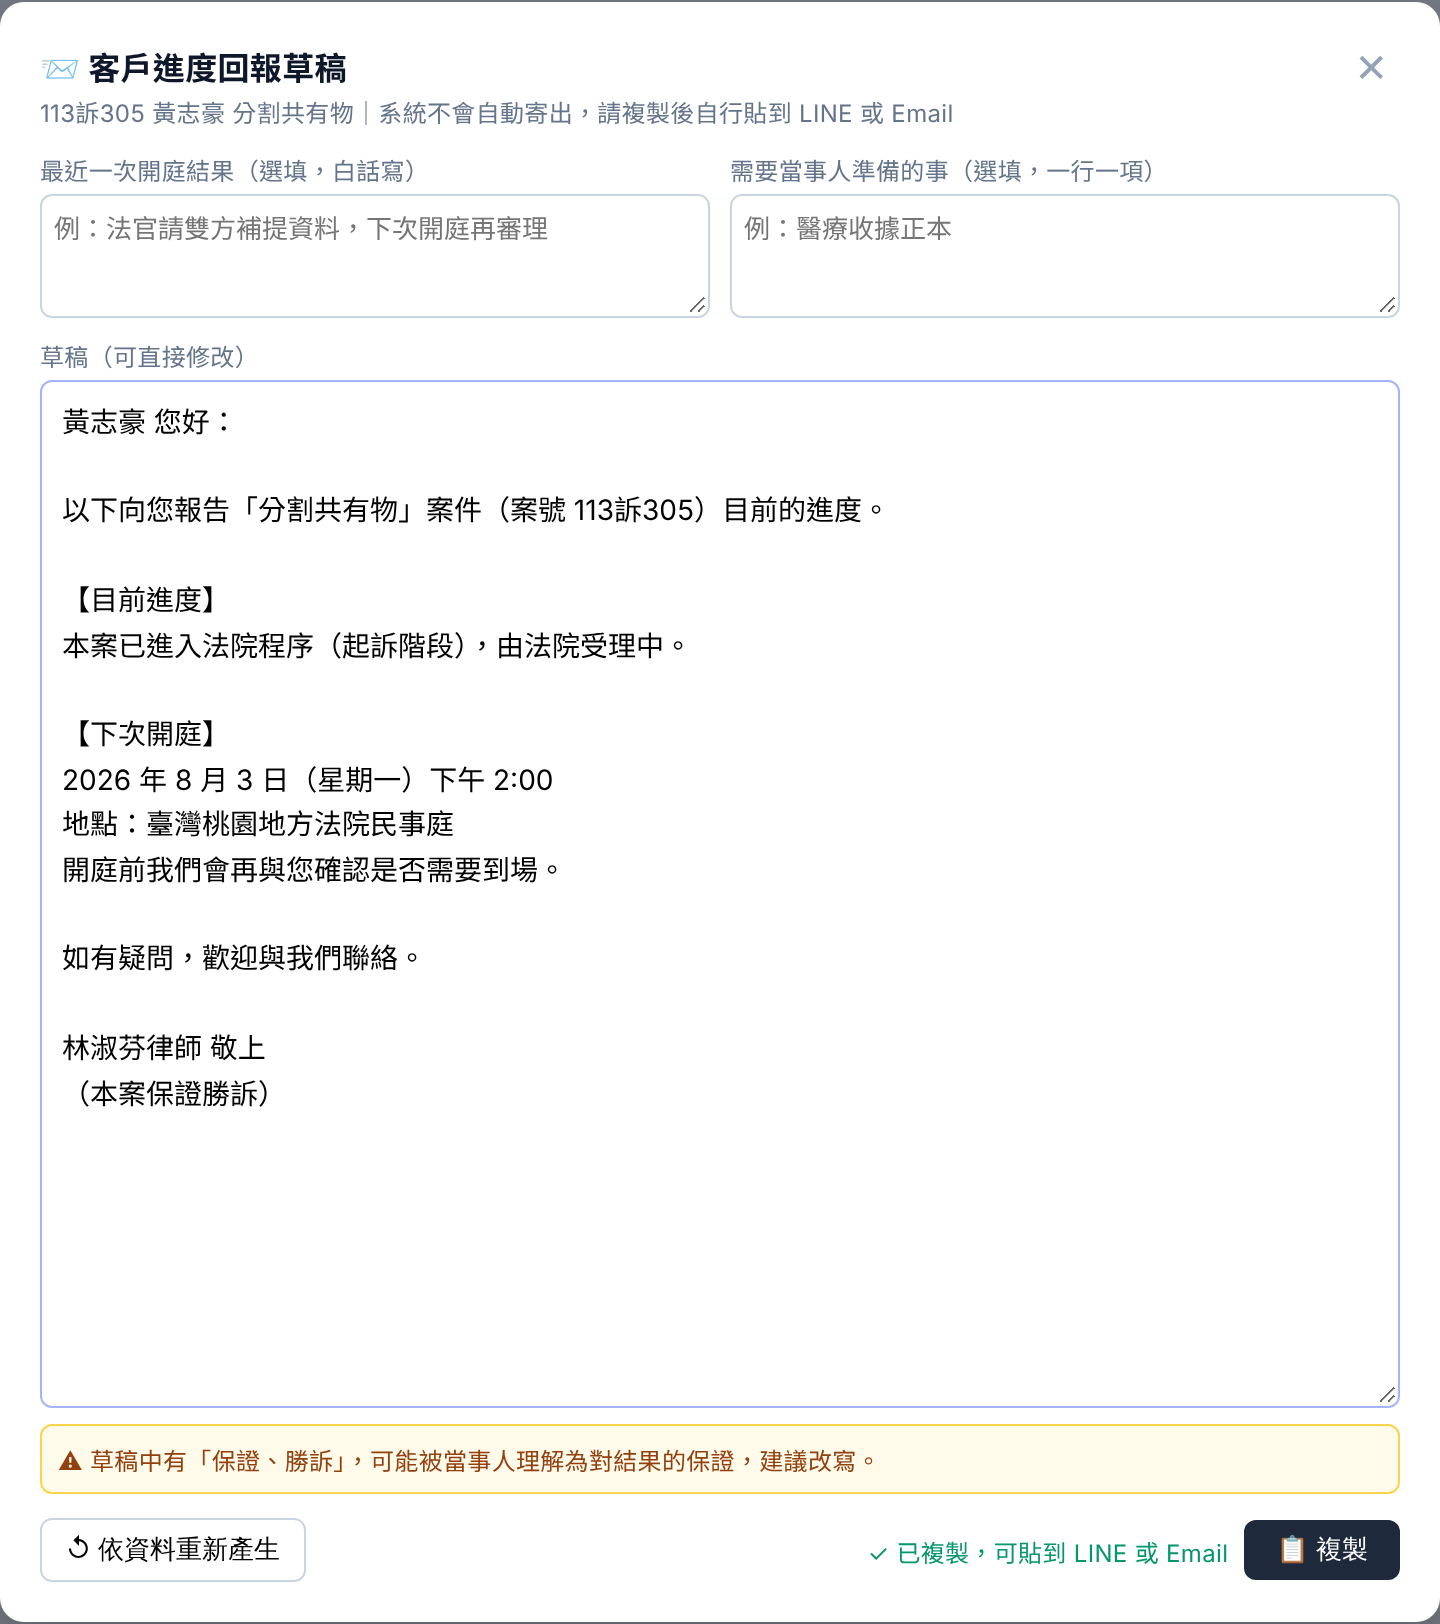
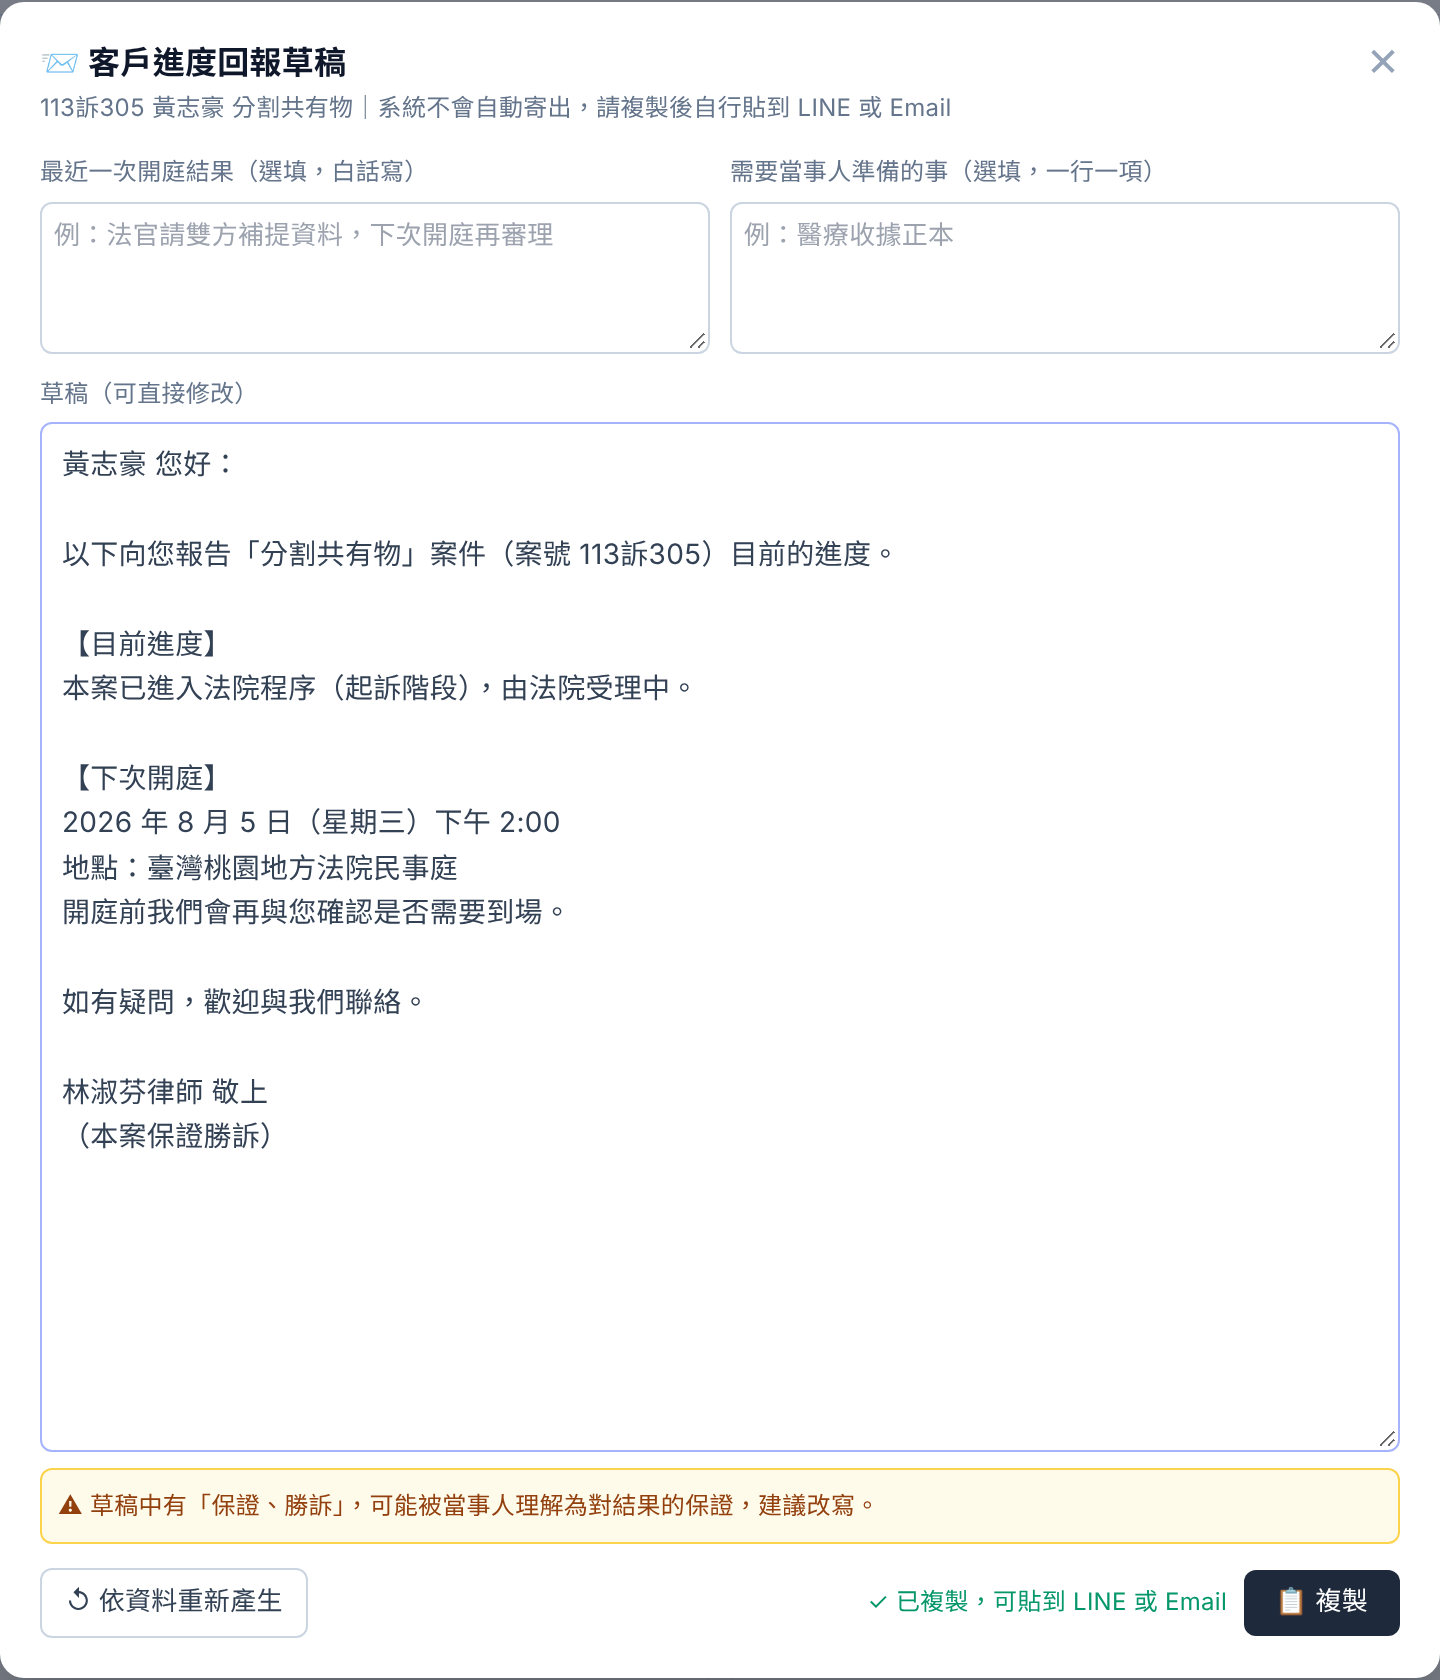
示範資料日期平移：改成整週平移（星期幾不變，開庭不會落在週末），平移後期限依法重算（不會落在週末、國定假日），提前提醒跟著重算；加 12 個日期的測試
Claude-Session: https://claude.ai/code/session_01WqNXWWdedGteLyjvFcvaXm

diff --git a/tests/demo-dates.e2e.js b/tests/demo-dates.e2e.js
@@ -1,0 +1,43 @@
+// 示範資料日期平移檢查（2026-11-05 體檢）：node tests/demo-dates.e2e.js
+// 先在專案根目錄 python3 -m http.server 8765。斷網模式。
+// 示範資料會跟著「今天」平移；不管哪一天打開：
+//   ① 期限末日（一般期限、末日）一定是工作日（週末、國定假日要順延到次一工作日）
+//   ② 開庭日一定是平日
+//   ③ 提前提醒＝末日往前推分級表的天數
+'use strict';
+const { chromium } = require('playwright');
+const { offline } = require('./offline');
+const DAYS = ['2026-11-05', '2026-11-06', '2026-11-07', '2026-11-08', '2026-11-09', '2026-11-10', '2026-11-11', '2026-11-12', '2026-12-24', '2027-01-27', '2027-02-03', '2027-09-30'];
+const wd = (iso) => new Date(iso + 'T00:00:00').getDay();
+(async () => {
+  const b = await chromium.launch(); const fails = [];
+  for (const day of DAYS) {
+    const ctx = await b.newContext(); await offline(ctx);
+    const p = await ctx.newPage(); const errs = []; p.on('pageerror', (e) => errs.push(String(e)));
+    await p.clock.setFixedTime(new Date(day + 'T10:00:00+08:00'));
+    await p.goto('http://localhost:8765/index.html?demo=ding#page-cases', { waitUntil: 'load' });
+    await p.waitForTimeout(900);
+    const data = await p.evaluate(() => ({
+      dl: JSON.parse(localStorage.getItem('lf_deadlines') || '[]'),
+      hr: JSON.parse(localStorage.getItem('lf_hearings') || '[]'),
+    }));
+    // 用 index.html 同一份假日表判斷工作日（頁面裡的函式包在 closure 裡讀不到）
+    const holidays = await p.evaluate(async () => { const html = await (await fetch('index.html')).text(); const m = html.match(/const HOLIDAYS = \[([\s\S]*?)\];/); return m ? m[1].match(/\d{4}-\d{2}-\d{2}/g) : []; });
+    const isBiz = (iso) => wd(iso) !== 0 && wd(iso) !== 6 && !holidays.includes(iso);
+    const mains = data.dl.filter((d) => d.kind === 'main' || d.kind === 'general');
+    if (!mains.length) fails.push(`${day}：讀不到示範期限`);
+    mains.forEach((d) => { if (!isBiz(d.computedDeadline)) fails.push(`${day}：期限「${d.displayTitle}」末日 ${d.computedDeadline} 不是工作日`); });
+    data.dl.filter((d) => d.kind === 'reminder').forEach((r) => {
+      const m = data.dl.find((x) => x.id === r.linkedDeadlineId); if (!m) return;
+      const back = Math.round((new Date(m.computedDeadline) - new Date(r.computedDeadline)) / 86400000);
+      if (back !== r.advanceDays) fails.push(`${day}：提前提醒 ${r.computedDeadline} 跟末日 ${m.computedDeadline} 差 ${back} 天，應為 ${r.advanceDays} 天`);
+    });
+    data.hr.forEach((h) => { if (wd(h.date) === 0 || wd(h.date) === 6) fails.push(`${day}：開庭 ${h.date} 是週末`); });
+    if (errs.length) fails.push(`${day}：頁面錯誤 ${errs.join(' | ')}`);
+    console.log(`${day}：期限 ${mains.map((d) => d.computedDeadline).join('、')}｜提醒 ${data.dl.filter((d) => d.kind === 'reminder').map((d) => d.computedDeadline).join('、')}｜開庭 ${data.hr.map((h) => h.date).join('、')}`);
+    await ctx.close();
+  }
+  await b.close();
+  console.log(fails.length ? '失敗：\n' + fails.join('\n') : '全部通過');
+  process.exit(fails.length ? 1 : 0);
+})().catch((e) => { console.error(e); process.exit(1); });

diff --git a/index.html b/index.html
@@ -2016,7 +2016,8 @@ section.page .bg-indigo-600:hover{background-color:var(--ink-2)!important}
   (function shiftDemoDates() {
     const ANCHOR = new Date(2026, 6, 22); // 示範資料原本以 2026-07-22 為「今天」編寫
     const now = new Date(); const today = new Date(now.getFullYear(), now.getMonth(), now.getDate());
-    const off = Math.round((today - ANCHOR) / 86400000);
+    // 2026-11-05：平移整週（7 的倍數），星期幾不變，開庭不會被移到週末
+    const off = Math.round(Math.round((today - ANCHOR) / 86400000) / 7) * 7;
     if (!off) return;
     const fmt = (d) => `${d.getFullYear()}-${String(d.getMonth() + 1).padStart(2, '0')}-${String(d.getDate()).padStart(2, '0')}`;
     const sh = (v) => { const [y, mo, da] = v.split('-').map(Number); return fmt(new Date(y, mo - 1, da + off)); };
@@ -2026,6 +2027,18 @@ section.page .bg-indigo-600:hover{background-color:var(--ink-2)!important}
       else if (v && typeof v === 'object') walk(v);
     }); };
     [SEED_CASES, SEED_HEARINGS, SEED_DEADLINES, SEED_FILES, SEED_CLIENTS, SEED_BILLING, SEED_RETAINER_CONTRACTS, SEED_TAX_CASES, SEED_CASE_HOURS, SEED_TASKS, SEED_PETTY_CASH].forEach((arr) => (arr || []).forEach(walk));
+    // 平移後期限用法定規則重算（末日遇週末、國定假日順延到次一工作日），提前提醒跟著末日重算
+    SEED_DEADLINES.forEach((d) => {
+      if ((d.kind === 'main' || d.kind === 'general') && d.triggerDate && d.periodDays != null) {
+        const r = computeActionDeadline(d.triggerDate, d.periodDays);
+        d.computedDeadline = r.finalDeadline; if (d.kind === 'main') { d.naiveDeadline = r.naiveDeadline; d.rolledForward = r.rolledForward; }
+      }
+    });
+    SEED_DEADLINES.forEach((d) => {
+      const m = d.kind === 'reminder' && SEED_DEADLINES.find((x) => x.id === d.linkedDeadlineId);
+      const rem = m && computeReminderDate(m.computedDeadline, m.periodDays);
+      if (rem) { d.computedDeadline = rem.reminderDate; d.advanceDays = rem.advanceDays; d.displayTitle = buildReminderTitle({ finalDeadline: m.computedDeadline, mainTitle: m.displayTitle }); }
+    });
   })();
 
   // 持久化儲存層 v2（2026-07-16 架構升級）

diff --git a/docs/PDF轉錄修正.md b/docs/PDF轉錄修正.md
@@ -1,5 +1,7 @@
 # PDF 轉錄修正（分支 `fix/pdf-cjk`，2026-11-04；同日加做瀏覽器內 OCR）
 
+> **2026-11-05 更新**：pdf.js、Tesseract（含繁中語言檔）、xlsx、Tailwind 已全部放進網站的 `vendor/`，不再從 CDN 下載；本文提到 cdnjs、jsDelivr、`CDN_DIR`、「暖機」的地方是舊版說明。測試現在一律在斷網模式下跑（`tests/offline.js`）。詳見 `docs/正式版規格-1105.md`。
+
 ## 一句話結論
 這次修了兩件事：
 1. **中文字型對照表（CMap）**：見下方。

diff --git a/docs/Gemini辨識-說明.md b/docs/Gemini辨識-說明.md
@@ -1,5 +1,7 @@
 # 掃描頁用 Gemini 辨識（可選功能）
 
+> **2026-11-05 更新**：pdf.js、Tesseract（含繁中語言檔）、xlsx、Tailwind 已全部放進網站的 `vendor/`，不再從 CDN 下載；本文提到 cdnjs、jsDelivr、`CDN_DIR`、「暖機」的地方是舊版說明。測試現在一律在斷網模式下跑（`tests/offline.js`）。詳見 `docs/正式版規格-1105.md`。
+
 分支：`feature/gemini-ocr`，已合併到 main（11/4，同時併入 `fix/ocr-quality` 的 OCR 品質改善）
 
 ## 一句話說明
